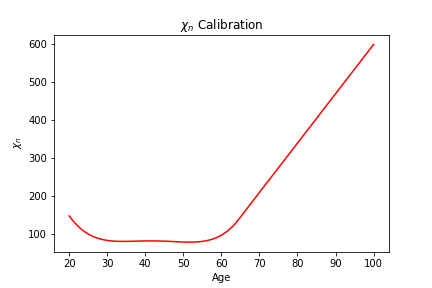
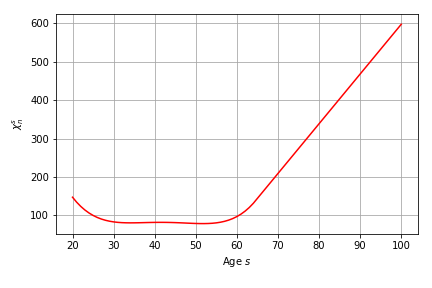
changes

Changed region(s): [[0.0301, 0.0312, 0.963, 1.0]]

diff --git a/ogusa/tax_calibration.py b/ogusa/tax_calibration.py
@@ -72,12 +72,14 @@ def find_tax_deduction(income, year):
 #%%
 # Graph of Effective Tax Rates
 calc_income_tax(5000000, 0, 2015)
-incomes = np.linspace(1, 40000000, 10)
+incomes = np.linspace(1, 40000000, 1000)
 vals = pd.Series(incomes).apply(calc_income_tax, args=[0, 2015])
 plt.plot(incomes, vals)
-plt.xlabel("Income")
-plt.ylabel("Effect tax rate")
-plt.title("ETR Over Income")
+plt.xlabel(r"Income (yen)")
+plt.ylabel(r"Effective tax rate $\tau_{s,t}^{ETR}$")
+plt.grid(b=True, which='major', color='0.65', linestyle='-')
+plt.tight_layout(rect=(0, 0.03, 1, 1))
+plt.savefig("effective_tax.png")
 plt.show()
 
 #%%
@@ -139,14 +141,13 @@ phi0_GMM, phi1_GMM, phi2_GMM = results_GMM.x
 
 #%%
 # Plot of GS Tax Function 
-I = np.linspace(1,40,100)
+I = np.linspace(1,40,1000)
 
 tax_rate = gs_func(I, phi0_GMM, phi1_GMM, phi2_GMM)
-plt.xlabel('Income (Million of Yen)')
+plt.xlabel('Income (Millions of Yen)')
 plt.ylim(0, 0.4)
-plt.ylabel('Tax Rate')
-plt.title('Income vs Tax Rate (GS)')
-plt.plot(I, tax_rate, color = 'r', label = r'Estimated Tax Rates')
+plt.ylabel('Effecitve Tax Rate $\tau_{s,t}^{ETR}$')
+plt.plot(I, tax_rate, color = 'r', label = r'Estimated')
 plt.legend(loc='upper right')
 
 I_new = I * 10 ** 6
@@ -154,12 +155,16 @@ tax_rate_data = []
 for i in I_new:
     tax_rate_data.append(calc_income_tax(i, 0, 2018))
 tax_rate_data = np.array(tax_rate_data)
-plt.plot(I, tax_rate_data, label = r'Calculated Tax Rates')
+plt.plot(I, tax_rate_data, label = r'Calculated')
 plt.legend(loc='upper right')
+plt.grid(b=True, which='major', color='0.65', linestyle='-')
+plt.tight_layout(rect=(0, 0.03, 1, 1))
+plt.savefig("effective_tax_gs.png")
 
-plt.hlines(y=0.273, xmin=1, xmax=40, label = r'Literature Tax Rate')
-plt.legend(loc='upper right')
 
-plt.savefig("tax_robustness")
-plt.show()
+# plt.hlines(y=0.273, xmin=1, xmax=40, label = r'Literature Tax Rate')
+# plt.legend(loc='upper right')
+
+# plt.savefig("tax_robustness")
+# plt.show()
 

diff --git a/ogusa/chebyshev_calibration.py b/ogusa/chebyshev_calibration.py
@@ -30,10 +30,11 @@ data = np.linspace(20, 100, 81)
 ages = np.linspace(20, 100, 81)
 data[:46] = data_beg
 data[45:] = data_end
-plt.xlabel('Age')
-plt.ylabel(r'$\chi_n$')
-plt.title(r'$\chi_n$ Calibration')
+plt.xlabel('Age $s$')
+plt.ylabel(r'$\chi_n^s$')
 plt.plot(ages, data, color = 'r', label = r'Estimated')
+plt.grid(b=True, which='major', color='0.65', linestyle='-')
+plt.tight_layout(rect=(0, 0.03, 1, 1))
 plt.savefig("chi_n.png")
 
 
@@ -54,12 +55,13 @@ model_moments = np.array([0.21092244724143888, 0.23663473960483364, 0.2512248460
 labels = np.linspace(20, 70, 11)
 labels[-1] = 85
 
-plt.xlabel('Age')
-plt.ylabel('Labor Supply as Percent of Total Time Endowment')
-plt.title('Labor Suppy vs. Age')
+plt.xlabel(r'Age $s$')
+plt.ylabel(r'Labor Supply $\frac{\bar{n_s}}{\tilde{l}}$')
 plt.scatter(labels, data_moments, color = 'r', label = r'Data Moments')
 plt.legend(loc='upper right')
 plt.scatter(labels, model_moments, color = 'b', label = r'Model Moments')
 plt.legend(loc='upper right')
+plt.grid(b=True, which='major', color='0.65', linestyle='-')
+plt.tight_layout(rect=(0, 0.03, 1, 1))
 plt.savefig("labor_moments.png")
 
